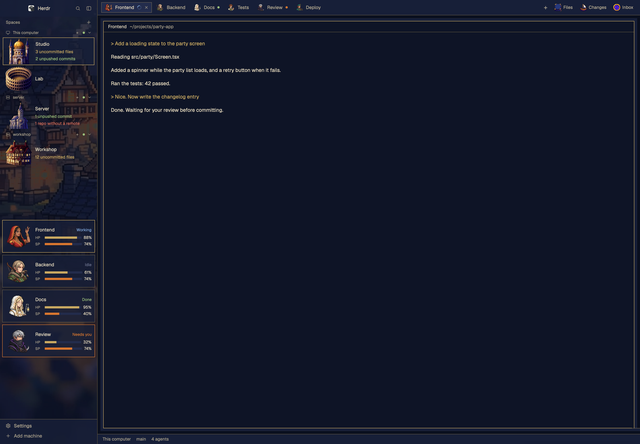
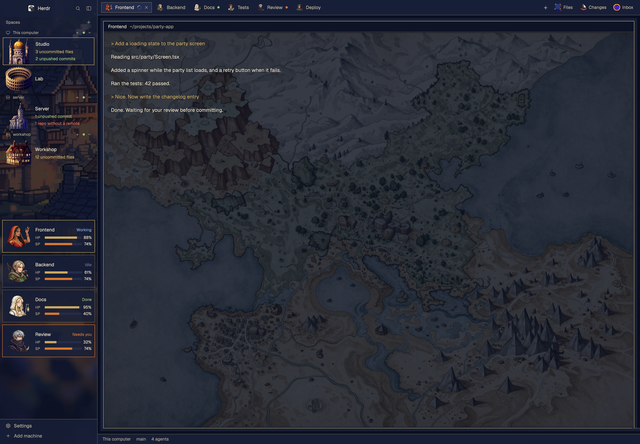
Put a fantasy world map behind the terminals
The tab block's pane background is now an image and terminal_opacity is
0.6, so the map shows behind the text. Update the previews, recipe, art
notice and prompts to match.

Claude-Session: https://claude.ai/code/session_018hvtax6z5Y6D5Pi7PXwUXJ

diff --git a/RECIPE.md b/RECIPE.md
@@ -7,6 +7,7 @@ A dusk-toned pixel RPG layout for Herdr. Each agent is a party member with a por
 **What you see:**
 
 - **Theme `traveler-dusk`:** deep indigo `#0e1426`, panels `#171f38`, antique gold `#c9a961`, parchment text `#e8dcc0`, ember orange `#d9772f`. Square corners with thin gold frames, no radius.
+- **Terminals** sit on a hand-drawn fantasy world map: the tab block's pane `background` is `mods/traveler-chrome/map.png` (`cover`), and root `terminal_opacity` is `0.6`, so it shows behind the text. Each split pane crops the map for itself.
 - **Left sidebar, 268px,** one continuous painted town from top to bottom (`mods/traveler-chrome/sidebar.png`, `cover`). Translucent header 46px, footer 69px.
 - **Spaces, top half of the sidebar.** A 76px row per space with a 72px building portrait, the name, and up to three git lines: uncommitted files (`ansi3`), unpushed commits (`ansi2`), repos without a remote (`ansi1`). A clean space shows only its name. The active row has a gold frame on `surface` at `c8` alpha.
 - **Agents, bottom half of the sidebar.** One framed card per agent: 72px portrait, tab name, status word, HP bar in `accent`, SP bar in `solid`.
@@ -43,6 +44,7 @@ A dusk-toned pixel RPG layout for Herdr. Each agent is a party member with a por
 - A mod cannot import from outside its own folder, so `lib.js` exists twice. Change both.
 - `image()` remembers a path that was missing. Put images in place before the mod references them, or use a new filename.
 - `image()` paths are relative to the Herdr home. Keep `mods/<name>/...` when renaming a mod.
+- Terminal text sits on the map. Lower `terminal_opacity` makes it stronger but harder to read; 0.75 and up nearly hides it. Herdr caches a background by filename, so a new picture needs a new name.
 - `herdr-app check` does not catch an undefined name; look at the window.
 - Tabs not listed in `jobs.json` get a free job from `assignJobs`, in tab order, so faces repeat only past eight names. Closing or reordering tabs can move an unlisted tab to another face; list it in `jobs.json` to pin it. Spaces not in `places.json` get a fixed pick from their name.
 - The clones are of Herdr 0.1.11, and a clean install also passed on 0.1.12. Re-check them after an app update.

diff --git a/docs/ART-PROMPTS.md b/docs/ART-PROMPTS.md
@@ -77,3 +77,11 @@ changes（傳送點）: Pixel art game icon of one round magic portal, glowing v
 - 背景不是純綠：補 `flat single color background, no gradient, no shadow on background`。
 - 八張畫風不一致：用最滿意的一張當參考圖，在同一個對話裡接著生成。
 - 桌布太亮：補 `darker, night tones, muted highlights`。
+
+## World map
+
+Z-Image Turbo, seed 555772, 9 steps, 1728x1296. Cropped to the inner frame and darkened: RGB × 0.85 × 0.92 + `#0e1426` × 0.08. Check the coastline by eye: this model drifts toward real places when asked for a map, and "unlike anywhere real" doesn't stop it. Naming each region's terrain works better.
+
+```
+Flat top-down antique fantasy cartography, watercolor and sepia ink on stained parchment, extremely dense intricate detail, the land covers seventy percent of the page and runs off every edge. A sprawling invented land of many crooked branching peninsulas, narrow winding gulfs and ragged fractal coastlines. Upper area pale snow fields and white ink mountains; left area clusters of brown stepped plateaus with pale green hollows; middle sage green woodland; lower area sandy ochre desert with winding inland lakes; lower right hundreds of tiny crowded grey-brown triangular peaks. Dozens of tiny round walled cities seen from above, thin white rivers and roads branching everywhere, dotted trails. Slate blue-grey sea with fine hatching, tiny ships and sea creatures. Thousands of small hand-drawn marks, no isometric side view, no floating island, no text, no letters, no border.
+```

diff --git a/ART-NOTICE.md b/ART-NOTICE.md
@@ -2,6 +2,8 @@
 
 The PNG images in `mods/*/art/`, `mods/traveler-chrome/sidebar.png`, `preview.png` and `layouts/traveler.png` were generated with Meta AI, then cut out and resized.
 
-They are not covered by the Apache 2.0 license in this repo. Meta's AI terms don't state who owns generated output or how it may be published, so no rights are granted and no warranty is given. Use them at your own risk, and replace them if you need certainty, for example in commercial work. The prompts are in `docs/ART-PROMPTS.md`.
+`mods/traveler-chrome/map.png` was generated with Z-Image Turbo (model license Apache 2.0), then cropped and darkened. `preview.png` and `layouts/traveler.png` include it. The model license doesn't settle the rights in its output.
 
-The characters and buildings are original designs and aren't based on a named game or character.
+They are not covered by the Apache 2.0 license in this repo. Meta's AI terms don't state who owns generated output or how it may be published. No rights are granted and no warranty is given. Use them at your own risk, and replace them if you need certainty, for example in commercial work. The prompts are in `docs/ART-PROMPTS.md`.
+
+The characters, buildings and map are original designs and aren't based on a named game or character.
